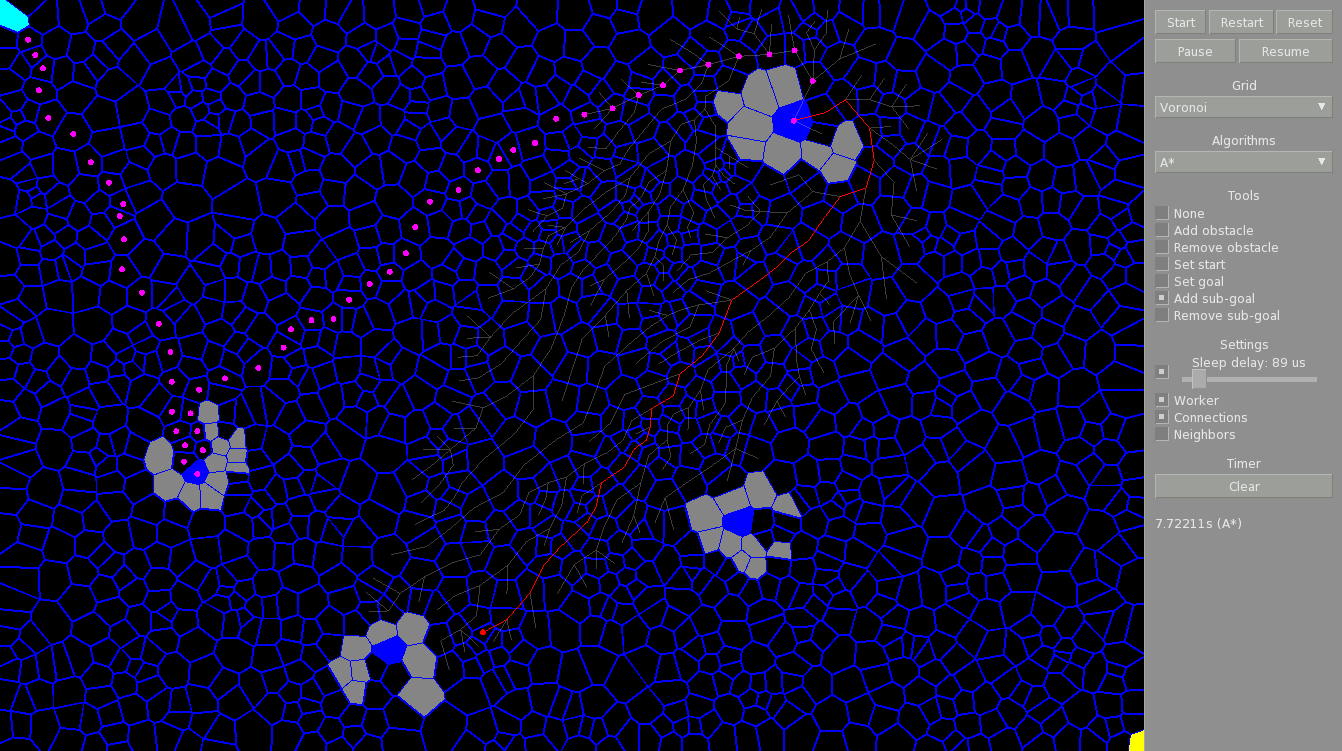
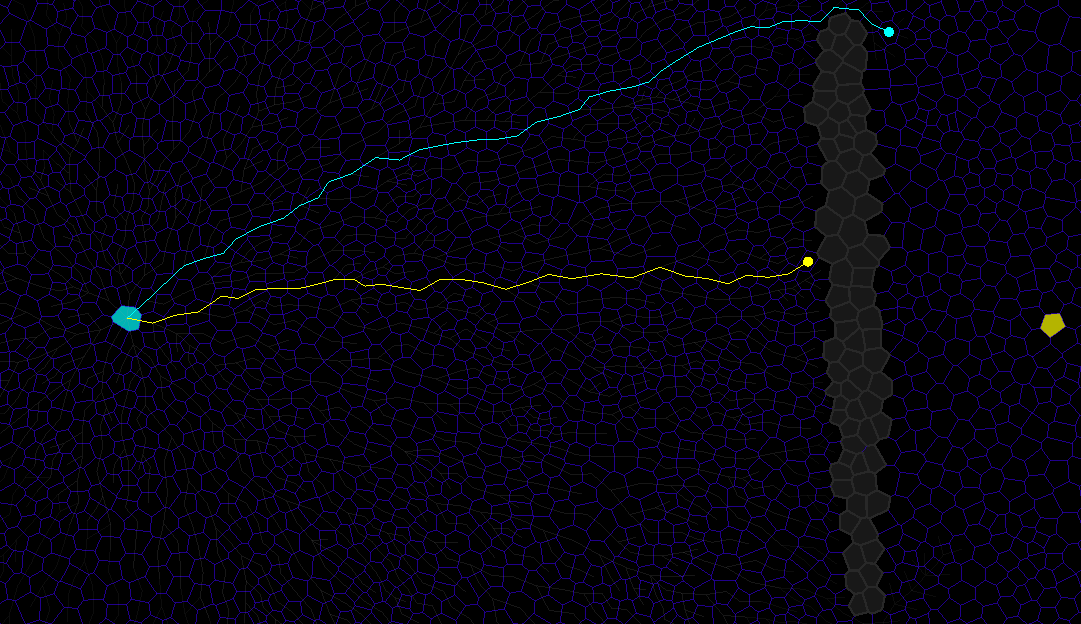
Add new preview images and gif

diff --git a/deps/Saffron/src/Saffron/Gui/SplashScreenPane.h b/deps/Saffron/src/Saffron/Gui/SplashScreenPane.h
@@ -11,37 +11,37 @@ namespace Se
 class SplashScreenPane
 {
 public:
-    explicit SplashScreenPane(const std::shared_ptr<BatchLoader> &batchLoader);
+	explicit SplashScreenPane(const std::shared_ptr<BatchLoader> &batchLoader);
 
-    void OnUpdate();
-    void OnGuiRender();
+	void OnUpdate();
+	void OnGuiRender();
 
-    const std::shared_ptr<BatchLoader> &GetBatchLoader() const { return _batchLoader; }
+	const std::shared_ptr<BatchLoader> &GetBatchLoader() const { return _batchLoader; }
 
-    void Show();
-    void Hide();
-    bool IsIdle() const;
-    bool IsFinished() const { return _finished; }
-    bool IsHidden() const { return _hidden; }
+	void Show();
+	void Hide();
+	bool IsIdle() const;
+	bool IsFinished() const { return _finished; }
+	bool IsHidden() const { return _hidden; }
 
 private:
-    String _title = "Saffron Engine 2D";
+	String _title = "Pathfinders";
 
-    std::shared_ptr<BatchLoader> _batchLoader;
-    sf::Texture _texture;
-    bool _hidden = false;
-    bool _finished = false;
-    String _finalizingStatus;
+	std::shared_ptr<BatchLoader> _batchLoader;
+	sf::Texture _texture;
+	bool _hidden = false;
+	bool _finished = false;
+	String _finalizingStatus;
 
-    sf::Time _progressTimer = sf::Time::Zero;
-    float _progressView = 0.0f;
-    float _progressViewFinished = 0.0f;
+	sf::Time _progressTimer = sf::Time::Zero;
+	float _progressView = 0.0f;
+	float _progressViewFinished = 0.0f;
 
-    sf::Time _holdTimer = sf::Time::Zero;
-    const sf::Time _holdTimerFinished = sf::seconds(0.8f);
+	sf::Time _holdTimer = sf::Time::Zero;
+	const sf::Time _holdTimerFinished = sf::seconds(0.8f);
 
-    FadePane _fadeIn;
-    FadePane _fadeOut;
+	FadePane _fadeIn;
+	FadePane _fadeOut;
 };
 }
 

diff --git a/src/PathfinderManager.cpp b/src/PathfinderManager.cpp
@@ -137,7 +137,7 @@ void PathfinderManager::OnUpdate(Scene &scene)
 							{
 								for ( const auto &neighborUID : node.GetNeighbors() )
 								{
-									activeGrid->AddObstacle(uid, neighborUID);
+									shiftDown ? activeGrid->RemoveObstacle(uid, neighborUID) : activeGrid->AddObstacle(uid, neighborUID);
 								}
 							}
 						}
